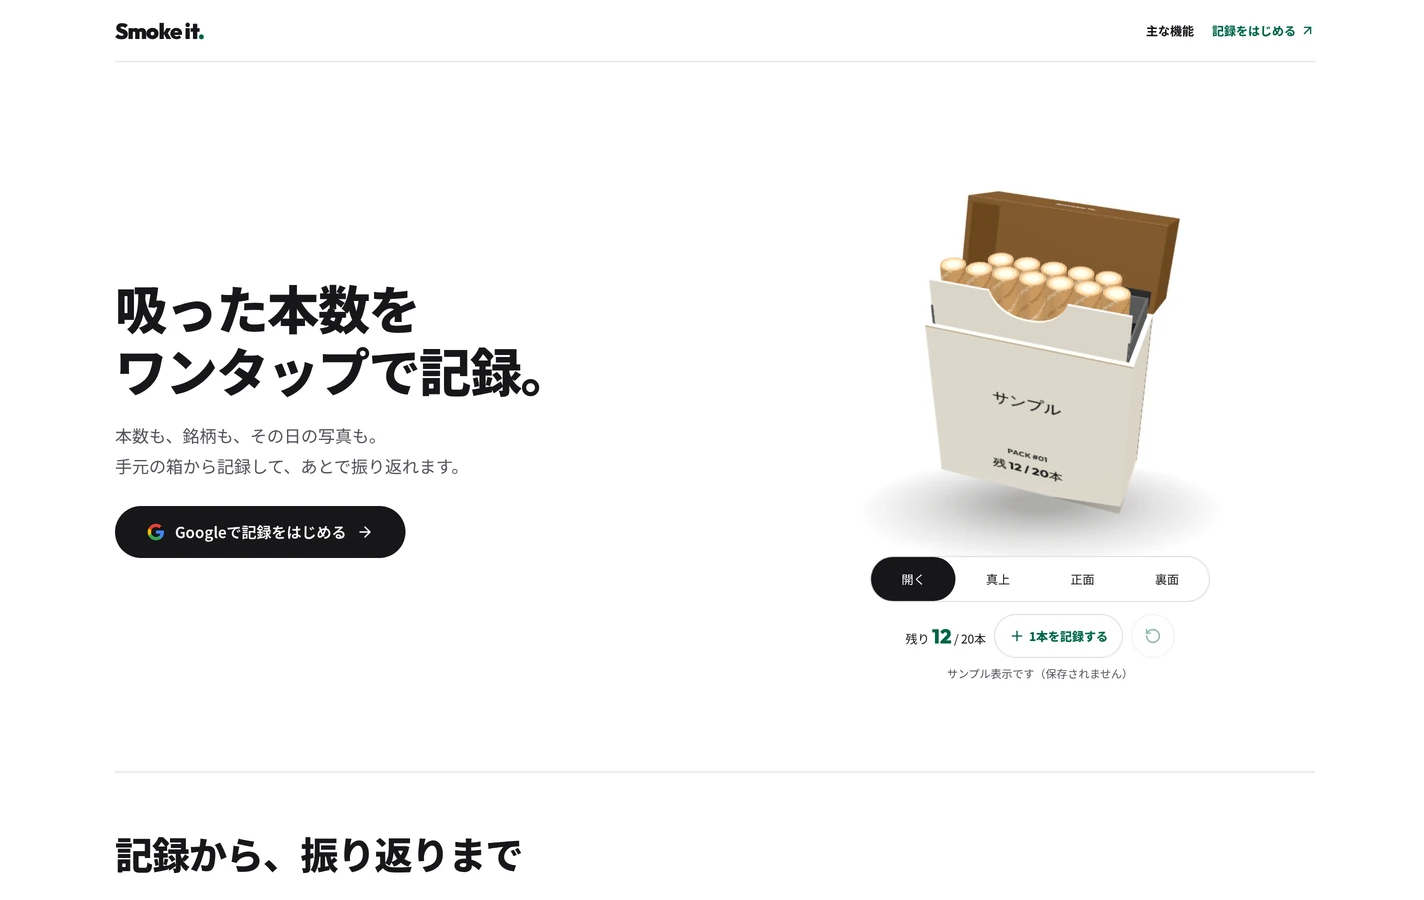
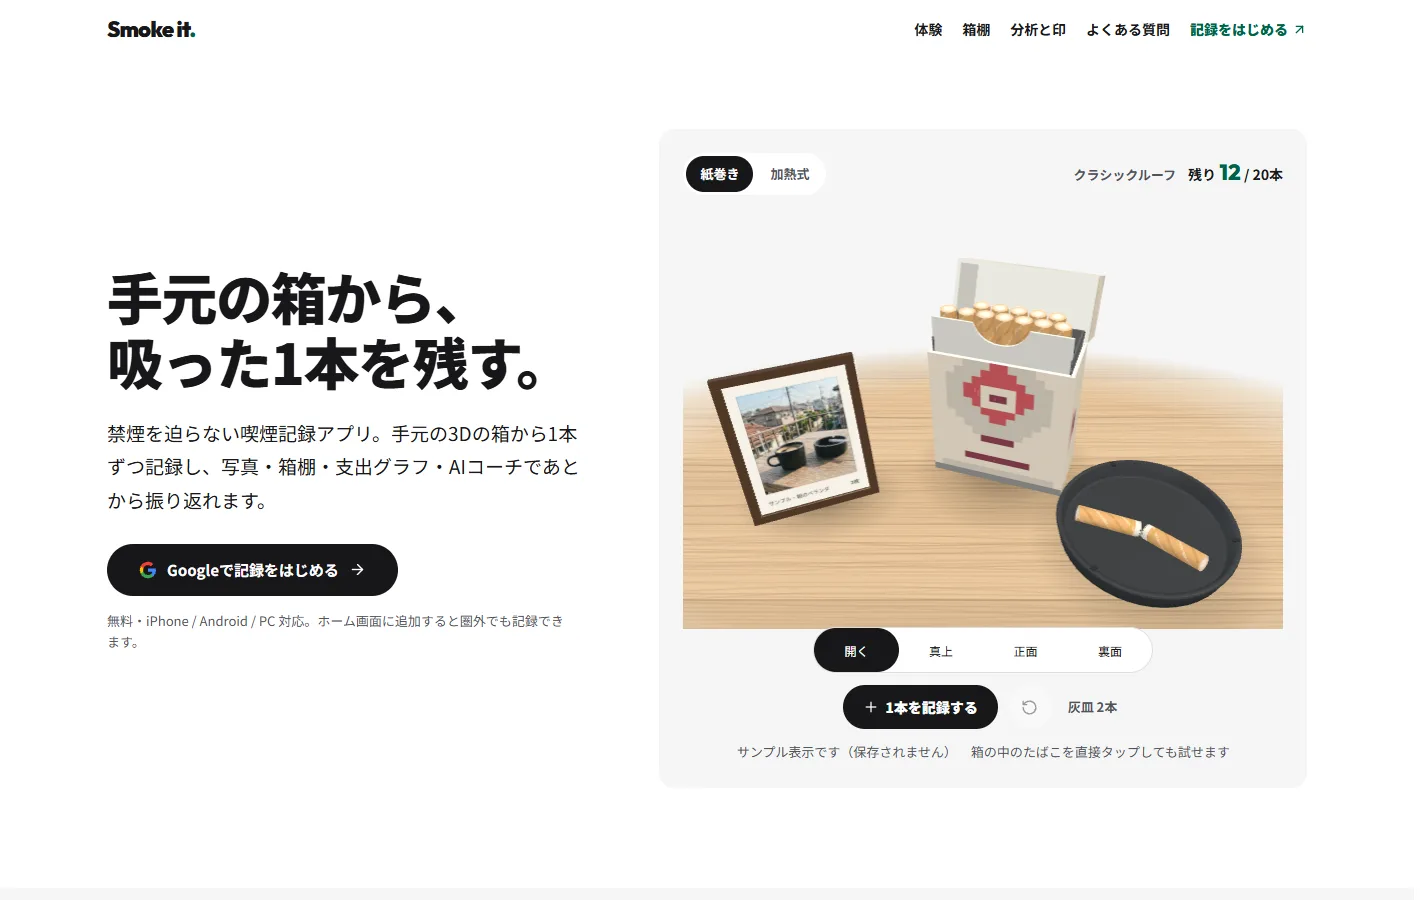
Update Smoke it. work entry and case study for the 2026-11-22 release (MCP/OAuth 2.1, offline page, gallery, analytics, new LP screenshots)

diff --git a/src/lib/cases.ts b/src/lib/cases.ts
@@ -38,14 +38,14 @@ export const caseItems: CaseItem[] = [
     title: "Smoke it.: 3D の箱から 1 本ずつ記録する、AI コーチ付き喫煙記録 PWA",
     summary:
       "開けた箱を 3D で表示し、1 本取り出して着火から灰皿まで演出付きで記録する喫煙記録 PWA。箱棚・写真からのドット絵生成・傾向分析・記録を踏まえた AI コーチで、自分の習慣を客観的に振り返れる。",
-    tags: ["TanStack Start", "Three.js", "PWA", "PostgreSQL", "Web Push"],
-    publishedAt: "2026-11-21",
+    tags: ["TanStack Start", "Three.js", "PWA", "PostgreSQL", "MCP"],
+    publishedAt: "2026-11-22",
     challenge:
       "既存の禁煙アプリは初期登録が面倒で続かず、警告的・医療的な見た目で開くのが億劫だった。禁煙を押し付けるのではなく、日々の本数と支出を気軽に記録して振り返れる仕組みが欲しかった。",
     action:
-      "React Three Fiber で 3D の箱と机・灰皿を作り、1 本取り出して着火から灰皿まで動く記録 UI を実装。写真から箱のドット絵を作る機能や箱棚コレクション、IndexedDB によるオフライン冪等同期、直近の記録・開封中の箱・支出を渡す AI コーチを組み込んだ。",
+      "React Three Fiber で 3D の箱と机・灰皿を作り、1 本取り出して着火から灰皿まで動く記録 UI を実装。写真から箱のドット絵を作る機能や箱棚コレクション、IndexedDB によるオフライン冪等同期、直近の記録・開封中の箱・支出を渡す AI コーチを組み込んだ。OAuth 2.1（PKCE・動的クライアント登録）で認可する MCP サーバーも実装した。",
     result:
-      "1 本ごとの記録が箱の残量と机の上の灰皿にそのまま反映され、圏外でも記録が途切れなくなった。箱棚・写真ギャラリー・カレンダーや時間帯グラフで習慣を振り返り、AI コーチに相談できる。",
+      "1 本ごとの記録が箱の残量と机の上の灰皿にそのまま反映され、圏外で起動しても記録が途切れなくなった。箱棚・写真ギャラリー・期間別の分析で習慣を振り返り、AI コーチや外部の AI エージェントから記録を扱える。",
     learning:
       "AI 連携では全履歴を渡すのではなく直近 4 週間の集計・開封中の箱・支出に絞ることで応答が安定した。オフライン記録の冪等同期と、外部無料モデルの提供終了に備えたフォールバックも継続運用に欠かせなかった。",
   },

diff --git a/src/lib/works.ts b/src/lib/works.ts
@@ -56,12 +56,12 @@ export const works: Work[] = [
     name: "Smoke it.",
     tagline: "3D の箱から 1 本ずつ記録する、AI コーチ付きの喫煙記録 PWA",
     summary:
-      "開けた箱を 3D で表示し、1 本取り出して着火から灰皿まで演出付きで記録する。箱棚や写真ギャラリー、時間帯・曜日別の傾向、支出を一覧でき、記録を踏まえて AI コーチに相談できる。",
+      "開けた箱を 3D で表示し、1 本取り出して着火から灰皿まで演出付きで記録する。箱棚や写真ギャラリー、期間別の傾向と支出を一覧でき、記録を踏まえて AI コーチに相談できる。OAuth 2.1 で認可する MCP サーバーから、AI エージェントでも記録を読み書きできる。",
     status: "live",
     since: "2025.12",
     scope: "企画・設計・実装・デプロイ（単独開発）",
     operation: "GitHub Actions でビルドし、自宅 Proxmox 上の Docker にデプロイ",
-    stack: ["TanStack Start", "Three.js", "PWA", "PostgreSQL / Prisma", "OpenRouter"],
+    stack: ["TanStack Start", "Three.js", "PWA", "PostgreSQL / Prisma", "OpenRouter", "MCP"],
     links: { live: "https://smoke-it.koshikai.dev", caseSlug: "smoke-it" },
     image: {
       alt: "Smoke it. のランディングページ",

diff --git a/public/.well-known/agent-skills/koshikai-cases/SKILL.md b/public/.well-known/agent-skills/koshikai-cases/SKILL.md
@@ -10,7 +10,7 @@ Use this skill to list and read the 11 in-depth technical case studies published
 ## Available Case Studies by Axis
 
 ### Build (`/works`)
-- `/cases/smoke-it` — Smoke it.: 喫煙習慣を記録し、改善を支援する AI コーチ付き PWA
+- `/cases/smoke-it` — Smoke it.: 3D の箱から 1 本ずつ記録する、AI コーチ付き喫煙記録 PWA
 - `/cases/karigallery` — KariGallery: 決済フローまで実装したイラストギャラリー
 
 ### Operate (`/engineering`)
